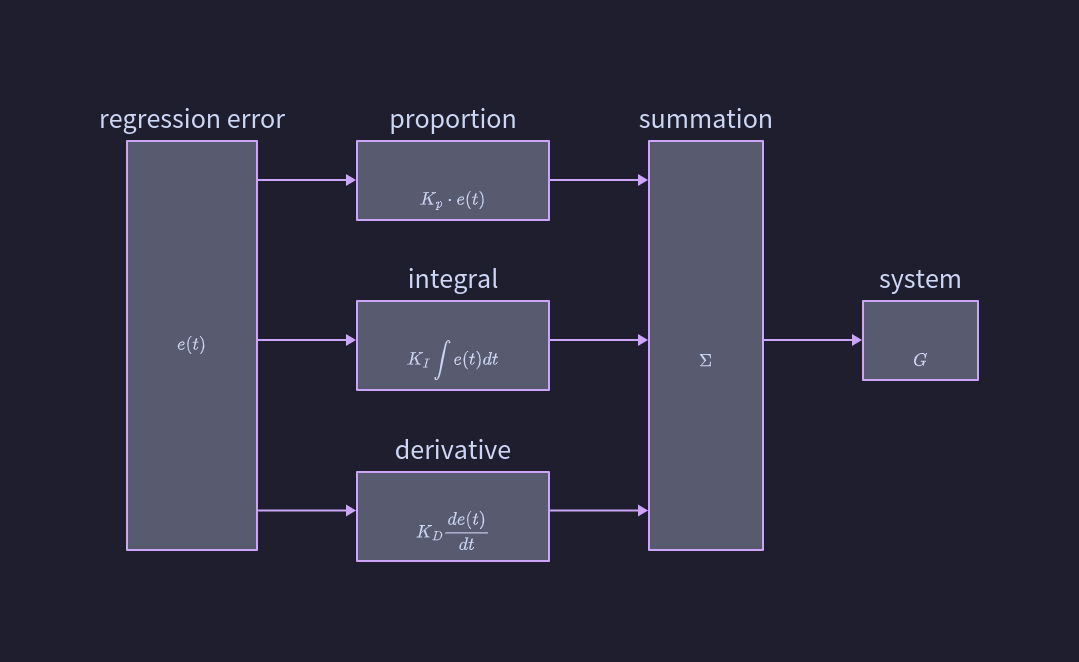
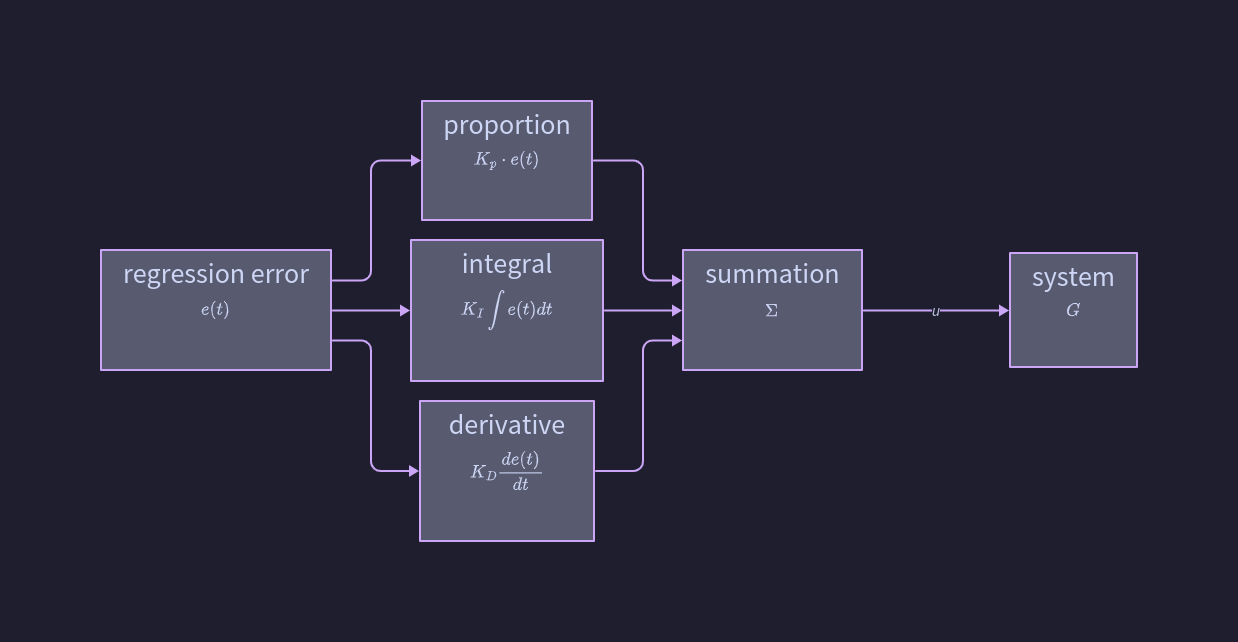
typos in PID controller doc

Changed region(s): [[0.0612, 0.1558, 0.9175, 0.8723], [0.1529, 0.4673, 0.1835, 0.5296]]

diff --git a/docs/api/PID.md b/docs/api/PID.md
@@ -15,7 +15,7 @@ These three modes of control provide a powerful toolbox to drive potentially ver
 ![image](/img/active_feedback/PID.png)
 *This is the typical schematic of the PID controller, where the input signal is weighted in its intensity, integral, and derivative by coefficients $K_p$, $K_I$, and $K_D$ respectively before being summed and passed to the control system.*
 
-This would seem to indicate that the following will be true for the system output $u$ for a given sampling time $T$:
+This would seem to indicate that the following will be true for the controller output $u$ for a given sampling time $T$:
 
 $$
 u_n = K_p e_n + TK_I\sum_n e_n + \frac{K_D}{T}(e_n-e_{n-1})
